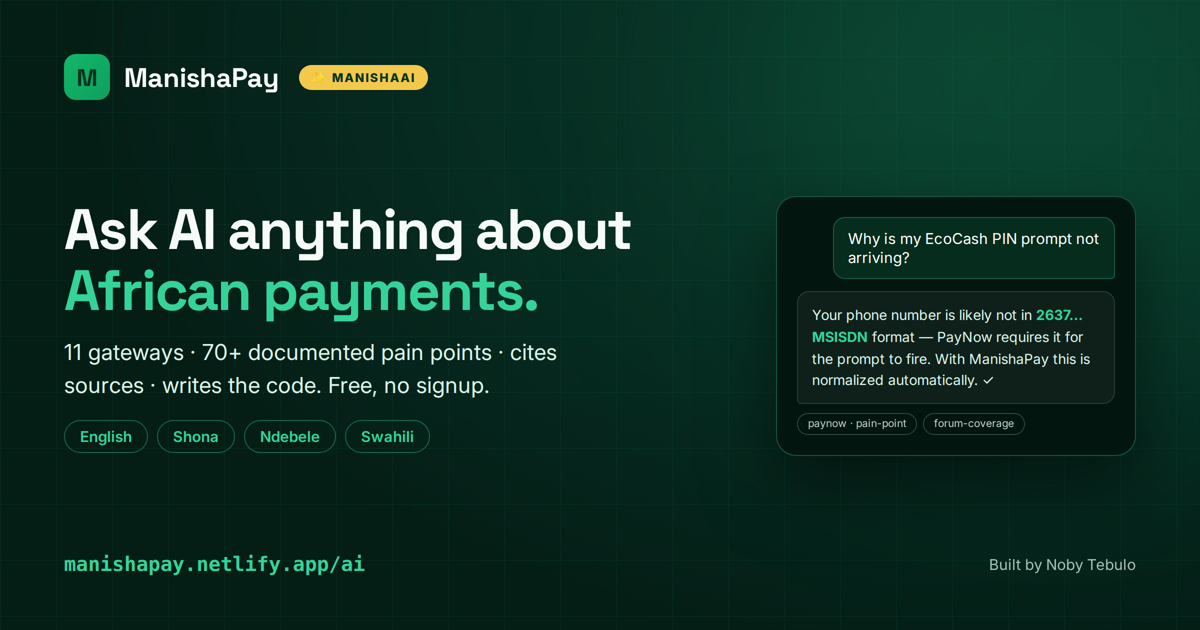
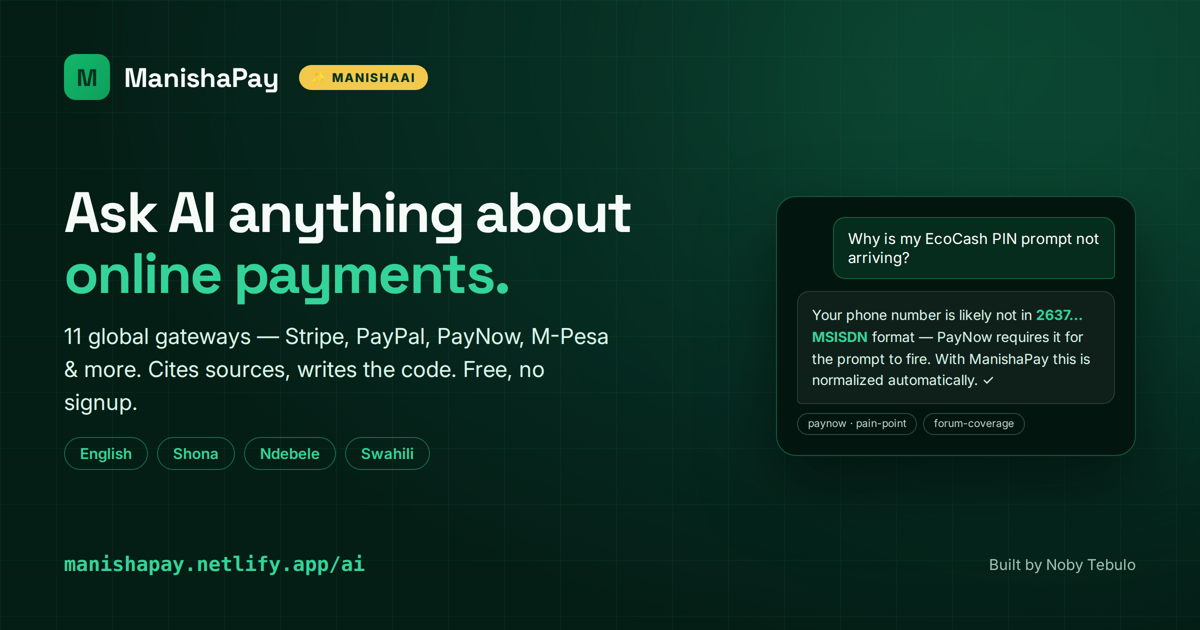
fix: OG card + meta reframed global-first (Stripe/PayPal lead; Africa edge, not ceiling)

Changed region(s): [[0.0308, 0.3016, 0.5242, 0.754]]

diff --git a/frontend/index.html b/frontend/index.html
@@ -23,10 +23,10 @@
     <meta name="color-scheme" content="dark light" />
 
     <!-- Primary -->
-    <title>ManishaPay — One API for Africa's payment gateways, now with ManishaAI</title>
+    <title>ManishaPay — One API for every payment gateway, now with ManishaAI</title>
     <meta
       name="description"
-      content="Accept payments through 11 gateways — PayNow, Stripe, PayPal, M-Pesa, Paystack & more — with one API or no-code payment links. Ask ManishaAI anything about payment integrations, free, in English, Shona, Ndebele or Swahili. Built by Noby Tebulo."
+      content="Accept payments worldwide through 11 gateways — Stripe, PayPal, PayNow, M-Pesa, Paystack & more — with one API or no-code payment links. Ask ManishaAI anything about payment integrations, free, in English, Shona, Ndebele or Swahili. Built by Noby Tebulo."
     />
     <meta
       name="keywords"
@@ -49,17 +49,17 @@
     <meta property="og:url" content="https://manishapay.netlify.app/" />
     <meta
       property="og:title"
-      content="ManishaPay — One API for Africa's payment gateways, now with ManishaAI"
+      content="ManishaPay — One API for every payment gateway, now with ManishaAI"
     />
     <meta
       property="og:description"
-      content="One API + payment links across 11 gateways. NEW: ManishaAI — a free assistant that answers any payments-integration question and writes the code. English · Shona · Ndebele · Swahili. Built by Noby Tebulo."
+      content="One API + payment links across 11 global gateways — Stripe, PayPal, PayNow, M-Pesa & more. NEW: ManishaAI — a free assistant that answers any payments-integration question and writes the code. English · Shona · Ndebele · Swahili. Built by Noby Tebulo."
     />
-    <meta property="og:image" content="https://manishapay.netlify.app/og-image.png?v=ai1" />
-    <meta property="og:image:secure_url" content="https://manishapay.netlify.app/og-image.png?v=ai1" />
+    <meta property="og:image" content="https://manishapay.netlify.app/og-image.png?v=ai2" />
+    <meta property="og:image:secure_url" content="https://manishapay.netlify.app/og-image.png?v=ai2" />
     <meta property="og:image:width" content="1200" />
     <meta property="og:image:height" content="630" />
-    <meta property="og:image:alt" content="ManishaAI — ask AI anything about African payments. By Noby Tebulo." />
+    <meta property="og:image:alt" content="ManishaAI — ask AI anything about online payments. By Noby Tebulo." />
     <meta property="og:locale" content="en_ZW" />
     <meta property="article:author" content="Noby Tebulo" />
     <meta property="article:publisher" content="https://nobie.netlify.app" />
@@ -68,14 +68,14 @@
     <meta name="twitter:card" content="summary_large_image" />
     <meta
       name="twitter:title"
-      content="ManishaPay — One API for Africa's payment gateways, now with ManishaAI"
+      content="ManishaPay — One API for every payment gateway, now with ManishaAI"
     />
     <meta
       name="twitter:description"
-      content="One API for 11 African & global gateways. NEW: ManishaAI answers any payments question free — in English, Shona, Ndebele or Swahili. By Noby Tebulo."
+      content="One API for 11 global gateways — Stripe, PayPal, PayNow, M-Pesa & more. NEW: ManishaAI answers any payments question free — 4 languages. By Noby Tebulo."
     />
-    <meta name="twitter:image" content="https://manishapay.netlify.app/og-image.png?v=ai1" />
-    <meta name="twitter:image:alt" content="ManishaAI — ask AI anything about African payments. By Noby Tebulo." />
+    <meta name="twitter:image" content="https://manishapay.netlify.app/og-image.png?v=ai2" />
+    <meta name="twitter:image:alt" content="ManishaAI — ask AI anything about online payments. By Noby Tebulo." />
     <meta name="twitter:creator" content="@nobytechy" />
     <meta name="twitter:site" content="@nobytechy" />
 
